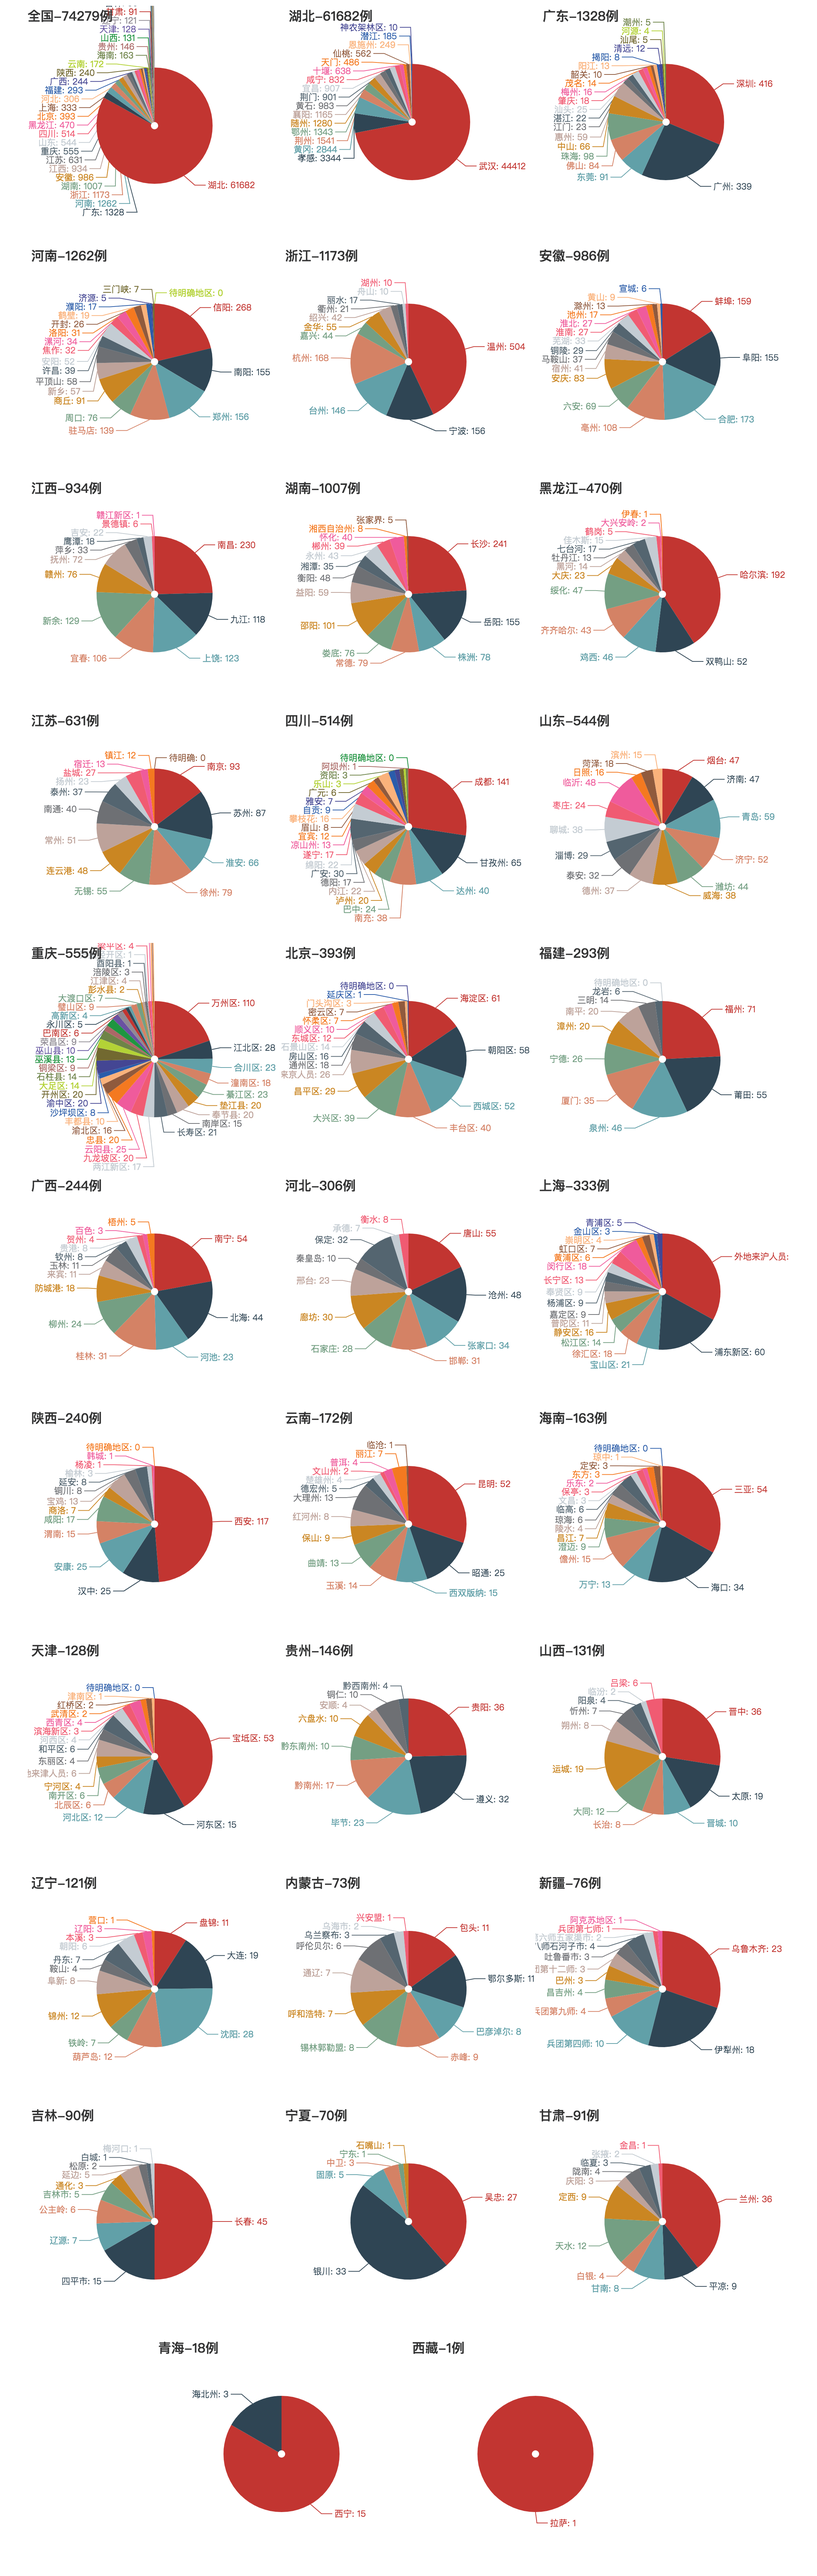
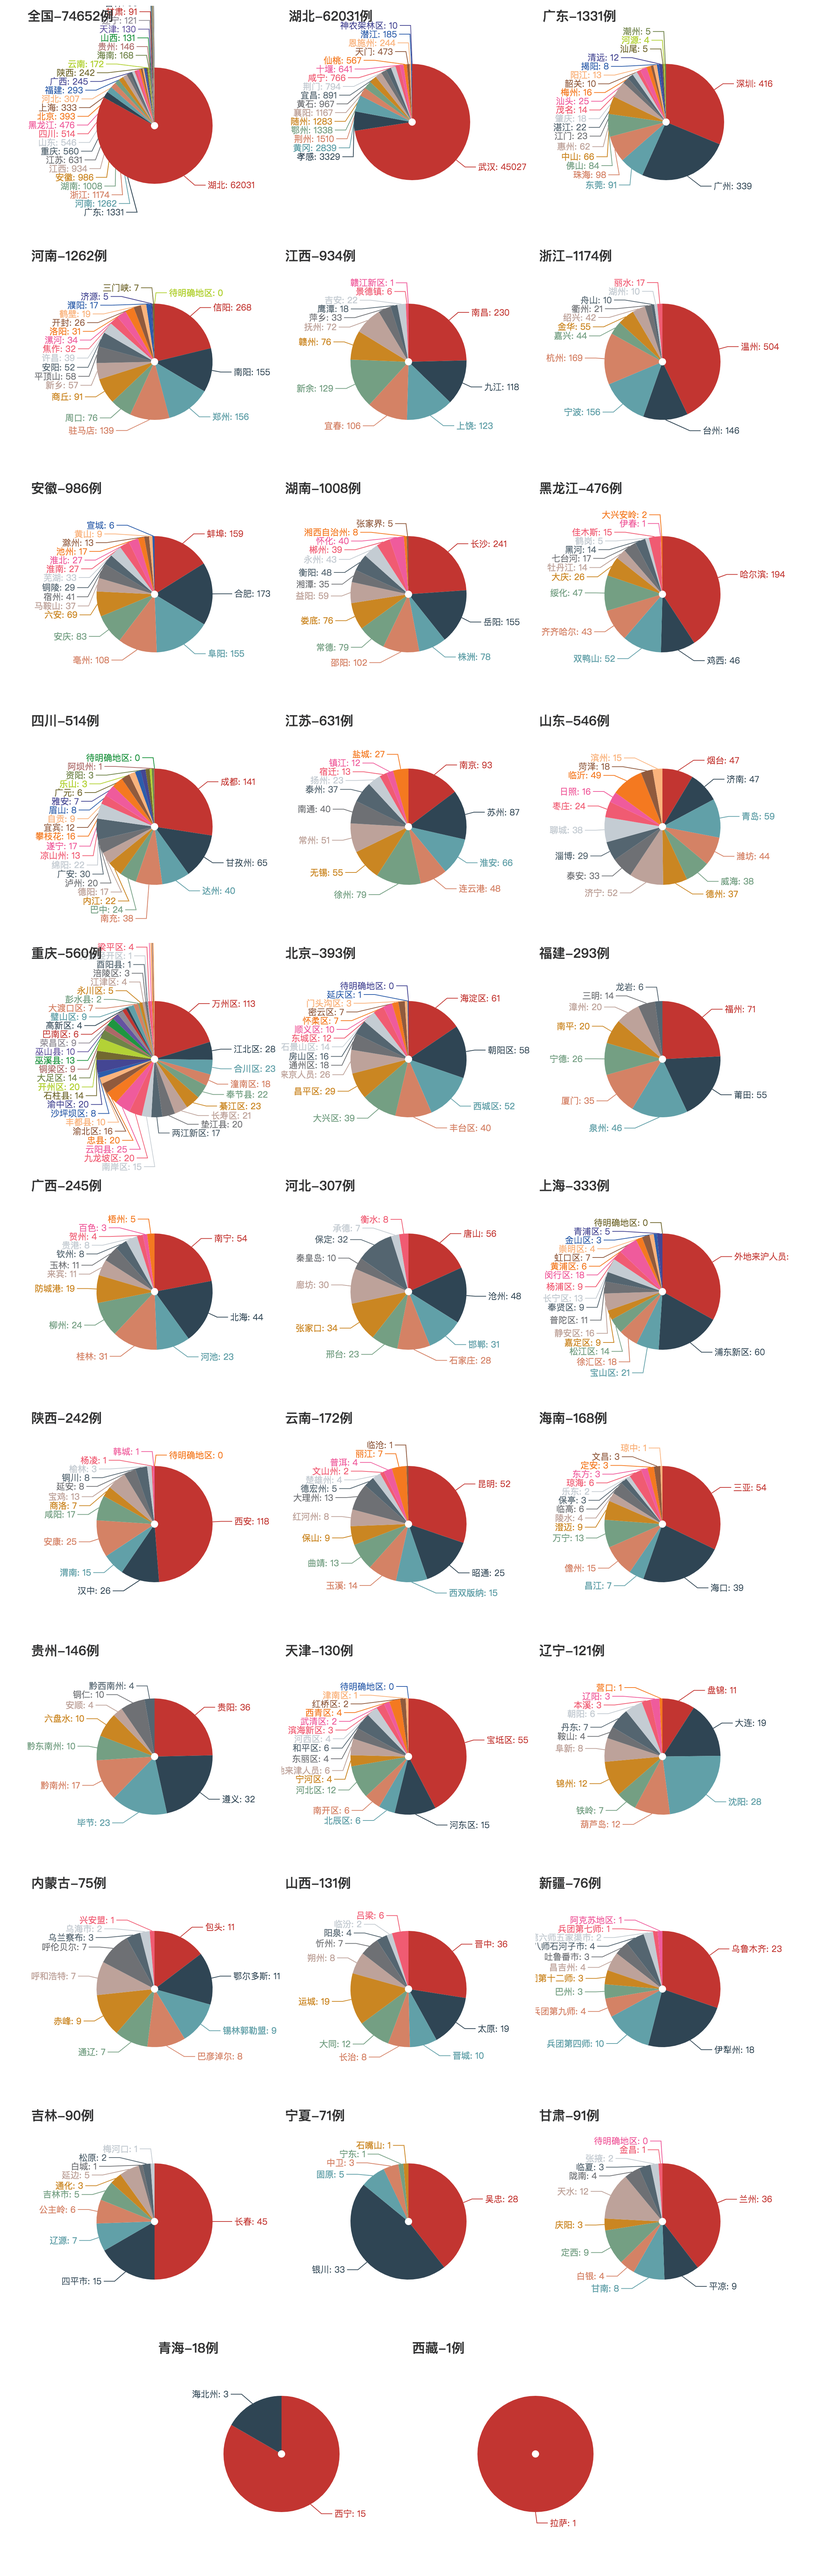
update result

diff --git a/main.py b/main.py
@@ -97,9 +97,9 @@ def draw_tendency(month, day):
     dates = ['1-%d' % i for i in range(22, 31 + 1)]
     dates.extend(['2-%02d' % i for i in range(1, day)])
     v0 = [131, 259, 444, 688, 769, 1771, 1459, 1737, 1982, 2102, 2590, 2829, 3235, 3887, 3143, 3399, 2656, 3062, 2478,
-          2015, 15152, 5090, 2641, 2009, 2051, 1886, 1749]
+          2015, 15152, 5090, 2641, 2009, 2051, 1886, 1749, 385]
     v1 = [69, 105, 180, 323, 371, 1291, 840, 1032, 1220, 1347, 1921, 2103, 2345, 3156, 2447, 2841, 2147, 2618, 2097,
-          1638, 14840, 4823, 2420, 1843, 1933, 1807, 1693]
+          1638, 14840, 4823, 2420, 1843, 1933, 1807, 1693, 349]
     v2 = [v0[i] - v1[i] for i in range(len(v0))]
     print(v2)
     c = (
@@ -261,7 +261,7 @@ def draw_multiple_pie(month, day):
 
 
 if __name__ == '__main__':
-    m, d = 2, 19
+    m, d = 2, 20
     get_html(m, d)
     draw_tendency(m, d)
     draw_multiple_pie(m, d)

diff --git a/README.md b/README.md
@@ -23,6 +23,7 @@
 - 更新：2020.2.17 09:19
 - 更新：2020.2.18 10:13
 - 更新：2020.2.19 09:24
+- 更新：2020.2.20 08:45
 
 # 全国/各省份疫情地图
 ![image](https://github.com/shadow12138/WuHanGanBaDei/blob/master/result/r1.png)
